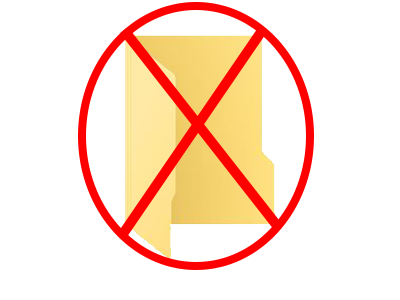
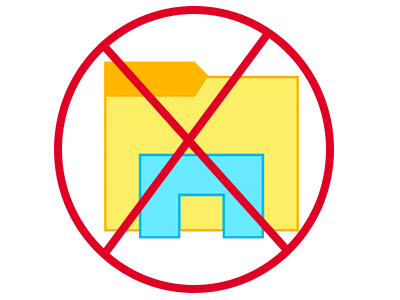
fixing images

diff --git a/index.html b/index.html
@@ -52,7 +52,9 @@ We hope you enjoy our software.
 Have fun!
 </p>
 <p>
-<img src="homepagephoto.png" alt="Execodeable" style="width:1200px;height:300px;">
+<img src="file.png" alt="Execodeable" style="width:400px;height:300px;">
+<img src="BiggerExecodeableIcon.png" alt="Execodeable" style="width:400px;height:300px;">
+<img src="registry.png" alt="Execodeable" style="width:400px;height:300px;">
 </p>
 <p style="color: #FFFFFF">
 At Execodeable we guarantee that no files or registry keys will be left on your computer.
